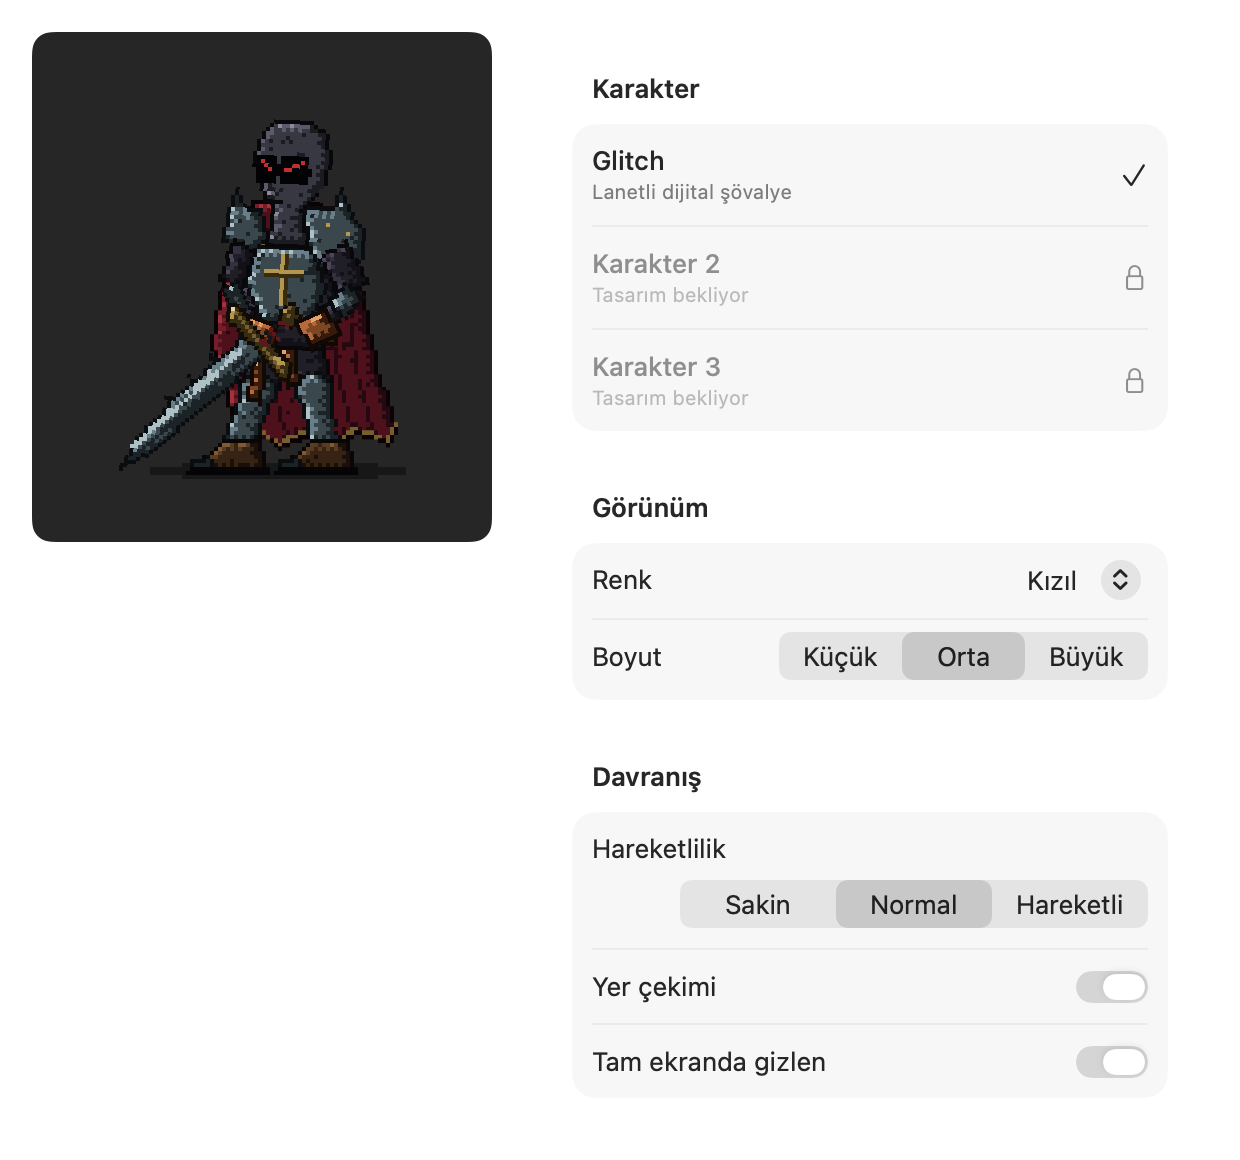
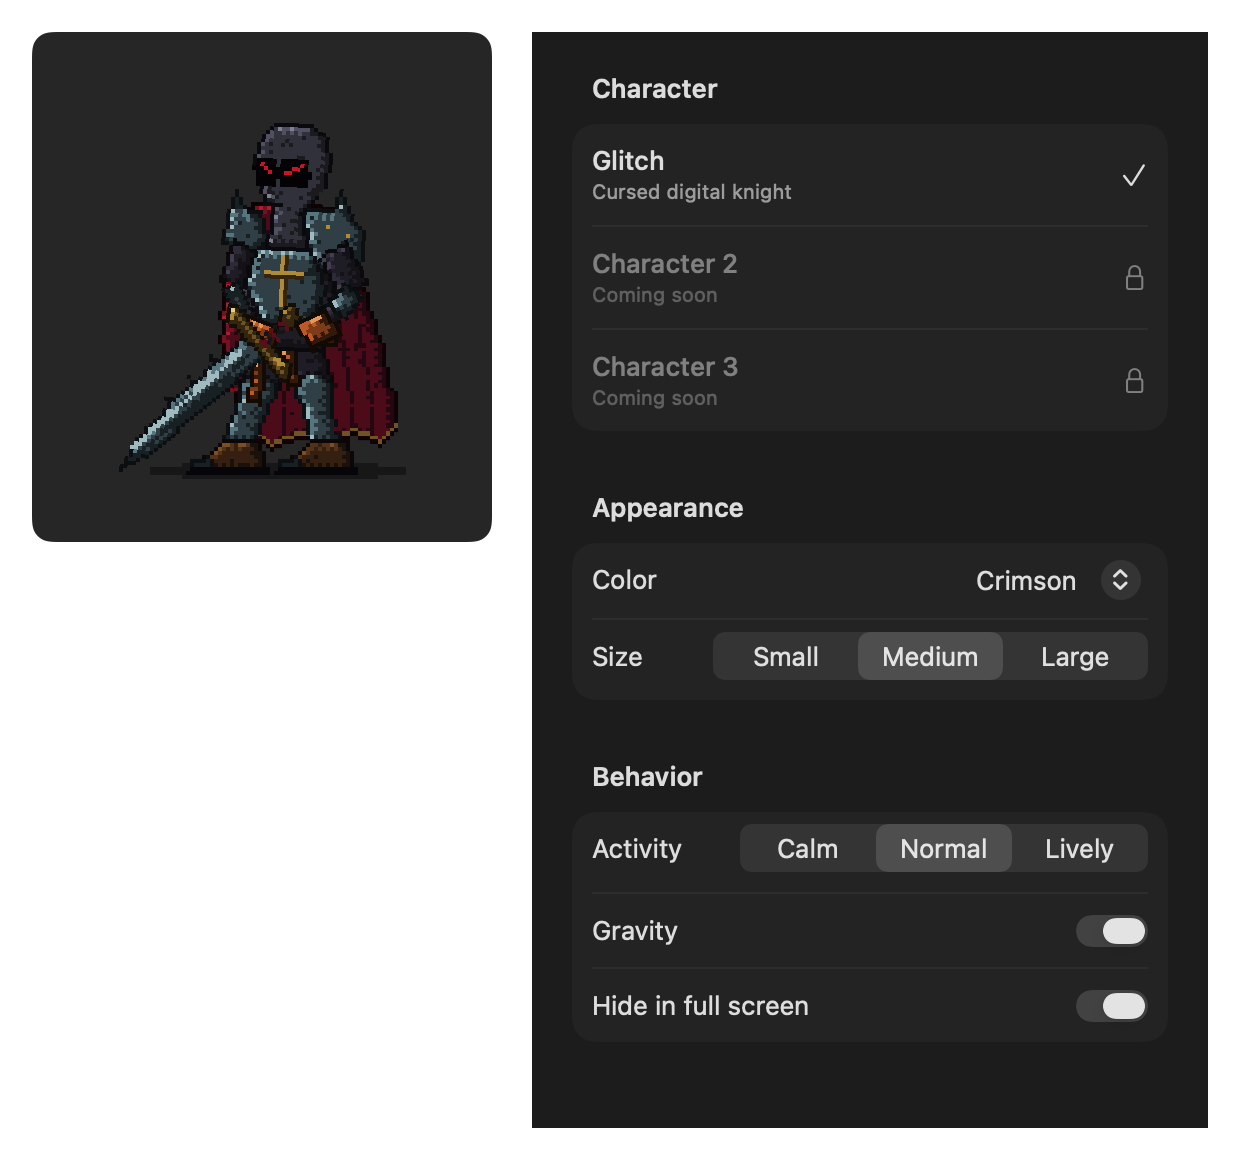
[App] English UI: menu, settings, sentinel dialog and panel

diff --git a/Glitch/SettingsView.swift b/Glitch/SettingsView.swift
@@ -10,7 +10,7 @@ struct SettingsView: View {
                 .tabItem { Label("Customize", systemImage: "paintbrush") }
                 .tag("customize")
             SoundTab()
-                .tabItem { Label("Ses", systemImage: "speaker.wave.2") }
+                .tabItem { Label("Sound", systemImage: "speaker.wave.2") }
                 .tag("sound")
         }
         .frame(width: 620, height: 580)
@@ -34,10 +34,10 @@ private struct CustomizeTab: View {
                 .frame(width: 230, height: 255)
                 .clipped()
                 .background(.black.opacity(0.85), in: .rect(cornerRadius: 10))
-                .accessibilityLabel("Karakter önizlemesi")
+                .accessibilityLabel("Character preview")
 
             Form {
-                Section("Karakter") {
+                Section("Character") {
                     ForEach(CharacterInfo.all) { info in
                         Button {
                             character = info.id
@@ -57,26 +57,26 @@ private struct CustomizeTab: View {
                         .disabled(!info.available)
                     }
                 }
-                Section("Görünüm") {
-                    Picker("Renk", selection: $hue) {
+                Section("Appearance") {
+                    Picker("Color", selection: $hue) {
                         ForEach(ColorTheme.all) { Text($0.name).tag($0.hue) }
                     }
-                    Picker("Boyut", selection: $scale) {
-                        Text("Küçük").tag(1.0)
-                        Text("Orta").tag(2.0)
-                        Text("Büyük").tag(3.0)
+                    Picker("Size", selection: $scale) {
+                        Text("Small").tag(1.0)
+                        Text("Medium").tag(2.0)
+                        Text("Large").tag(3.0)
                     }
                     .pickerStyle(.segmented)
                 }
-                Section("Davranış") {
-                    Picker("Hareketlilik", selection: $liveliness) {
-                        Text("Sakin").tag(0)
+                Section("Behavior") {
+                    Picker("Activity", selection: $liveliness) {
+                        Text("Calm").tag(0)
                         Text("Normal").tag(1)
-                        Text("Hareketli").tag(2)
+                        Text("Lively").tag(2)
                     }
                     .pickerStyle(.segmented)
-                    Toggle("Yer çekimi", isOn: $gravity)
-                    Toggle("Tam ekranda gizlen", isOn: $hideInFullscreen)
+                    Toggle("Gravity", isOn: $gravity)
+                    Toggle("Hide in full screen", isOn: $hideInFullscreen)
                 }
             }
             .formStyle(.grouped)
@@ -92,8 +92,8 @@ private struct SoundTab: View {
     var body: some View {
         Form {
             Section {
-                Toggle("Sessiz", isOn: $muted)
-                LabeledContent("Ses seviyesi") {
+                Toggle("Mute", isOn: $muted)
+                LabeledContent("Volume") {
                     HStack {
                         Image(systemName: "speaker.fill")
                         Slider(value: $volume, in: 0 ... 1)
@@ -102,7 +102,7 @@ private struct SoundTab: View {
                 }
                 .disabled(muted)
             }
-            Section("Olay sesleri") {
+            Section("Event sounds") {
                 ForEach(SoundGroup.allCases, id: \.self) { group in
                     SoundGroupToggle(group: group)
                 }

diff --git a/Glitch/Sentinel/SentinelMenu.swift b/Glitch/Sentinel/SentinelMenu.swift
@@ -9,13 +9,13 @@ struct SentinelMenu: View {
     var body: some View {
         let _ = revision
         if HookSetup.isInstalled {
-            Button("Claude Code nöbetçisi: Kaldır") { HookSetup.uninstall(); revision += 1 }
+            Button("Claude Code sentinel: Remove") { HookSetup.uninstall(); revision += 1 }
         } else {
-            Button("Claude Code nöbetçisi: Kur…") { HookSetup.askAndInstall(); revision += 1 }
+            Button("Claude Code sentinel: Install…") { HookSetup.askAndInstall(); revision += 1 }
         }
         let projects = SentinelHub.shared.projects
         if !projects.known.isEmpty {
-            Menu("İzlenen projeler") {
+            Menu("Watched projects") {
                 ForEach(projects.known, id: \.self) { cwd in
                     Button((projects.isIncluded(cwd) ? "✓ " : "    ") + projects.name(for: cwd)) {
                         projects.setIncluded(cwd, !projects.isIncluded(cwd))
@@ -40,10 +40,10 @@ enum HookSetup {
 
     static func askAndInstall() {
         let alert = NSAlert()
-        alert.messageText = "Claude Code nöbetçisi kurulsun mu?"
+        alert.messageText = "Install the Claude Code sentinel?"
         alert.informativeText = HookInstaller.preview(scriptPath: HookInstaller.scriptPath)
-        alert.addButton(withTitle: "Kur")
-        alert.addButton(withTitle: "Vazgeç")
+        alert.addButton(withTitle: "Install")
+        alert.addButton(withTitle: "Cancel")
         NSApp.activate()
         guard alert.runModal() == .alertFirstButtonReturn else { return }
         do {
@@ -52,9 +52,9 @@ enum HookSetup {
             let updated = try HookInstaller.merged(settings: current, scriptPath: HookInstaller.scriptPath)
             try write(updated, backingUp: current)
         } catch HookInstaller.Failure.invalidJSON {
-            show("settings.json okunamadı, hiçbir şey değiştirilmedi.")
+            show("Couldn't read settings.json. Nothing was changed.")
         } catch {
-            show("Kurulamadı: \(error.localizedDescription)")
+            show("Couldn't install: \(error.localizedDescription)")
         }
     }
 
@@ -63,9 +63,9 @@ enum HookSetup {
         do {
             try write(try HookInstaller.removed(settings: current, scriptPath: HookInstaller.scriptPath), backingUp: current)
         } catch HookInstaller.Failure.invalidJSON {
-            show("settings.json okunamadı, hiçbir şey değiştirilmedi.")
+            show("Couldn't read settings.json. Nothing was changed.")
         } catch {
-            show("Kaldırılamadı: \(error.localizedDescription)")
+            show("Couldn't remove: \(error.localizedDescription)")
         }
     }
 

diff --git a/Glitch/GlitchApp.swift b/Glitch/GlitchApp.swift
@@ -18,7 +18,7 @@ struct GlitchApp: App {
             AccessibilityStatus()
             SentinelMenu()
             Divider()
-            Button("Çıkış") { NSApp.terminate(nil) }
+            Button("Quit") { NSApp.terminate(nil) }
                 .keyboardShortcut("q")
         }
         Window("Glitch", id: "settings") {
@@ -36,7 +36,7 @@ private struct SettingsButtons: View {
     var body: some View {
         Button("Customize…") { open("customize") }
             .keyboardShortcut(",")
-        Button("Ses…") { open("sound") }
+        Button("Sound…") { open("sound") }
     }
 
     private func open(_ name: String) {
@@ -50,7 +50,7 @@ private struct MuteToggle: View {
     @AppStorage(Prefs.muted) private var muted = false
 
     var body: some View {
-        Button(muted ? "Sesi aç" : "Sessize al") { muted.toggle() }
+        Button(muted ? "Unmute" : "Mute") { muted.toggle() }
     }
 }
 
@@ -58,9 +58,9 @@ private struct MuteToggle: View {
 private struct AccessibilityStatus: View {
     var body: some View {
         if AXIsProcessTrusted() {
-            Text("✓ Yazı kutusu koruması açık")
+            Text("✓ Text field guard on")
         } else {
-            Button("⚠ Yazı kutusu koruması kapalı: izin ver…") {
+            Button("⚠ Text field guard off: allow…") {
                 TextFieldGuard.askForPermission()
                 if let url = URL(string: "x-apple.systempreferences:com.apple.preference.security?Privacy_Accessibility") {
                     NSWorkspace.shared.open(url)
@@ -74,7 +74,7 @@ private struct LoginToggle: View {
     @State private var enabled = SMAppService.mainApp.status == .enabled
 
     var body: some View {
-        Button(enabled ? "✓ Girişte başlat" : "Girişte başlat") {
+        Button(enabled ? "✓ Open at login" : "Open at login") {
             do {
                 if enabled { try SMAppService.mainApp.unregister() } else { try SMAppService.mainApp.register() }
             } catch {

diff --git a/Glitch/Prefs.swift b/Glitch/Prefs.swift
@@ -32,11 +32,11 @@ enum SoundGroup: String, CaseIterable {
 
     var title: String {
         switch self {
-        case .arrival: "Uyanış ve veda"
-        case .reactions: "Tepkiler (tıklama, sürükleme)"
-        case .movement: "Adımlar ve düşüş"
+        case .arrival: "Wake and goodbye"
+        case .reactions: "Reactions (click, drag)"
+        case .movement: "Steps and falls"
         case .glitch: "Glitch"
-        case .sword: "Kılıç"
+        case .sword: "Sword"
         }
     }
 
@@ -61,9 +61,9 @@ struct CharacterInfo: Identifiable {
     let available: Bool
 
     static let all = [
-        CharacterInfo(id: "glitch", name: "Glitch", theme: "Lanetli dijital şövalye", available: true),
-        CharacterInfo(id: "slot2", name: "Karakter 2", theme: "Tasarım bekliyor", available: false),
-        CharacterInfo(id: "slot3", name: "Karakter 3", theme: "Tasarım bekliyor", available: false),
+        CharacterInfo(id: "glitch", name: "Glitch", theme: "Cursed digital knight", available: true),
+        CharacterInfo(id: "slot2", name: "Character 2", theme: "Coming soon", available: false),
+        CharacterInfo(id: "slot3", name: "Character 3", theme: "Coming soon", available: false),
     ]
 }
 
@@ -74,9 +74,9 @@ struct ColorTheme: Identifiable {
     var id: Double { hue }
 
     static let all = [
-        ColorTheme(name: "Kızıl", hue: 0),
-        ColorTheme(name: "Kehribar", hue: 35),
-        ColorTheme(name: "Zümrüt", hue: 140),
-        ColorTheme(name: "Buz", hue: 200),
+        ColorTheme(name: "Crimson", hue: 0),
+        ColorTheme(name: "Amber", hue: 35),
+        ColorTheme(name: "Emerald", hue: 140),
+        ColorTheme(name: "Ice", hue: 200),
     ]
 }

diff --git a/Glitch/Sentinel/SessionListPanel.swift b/Glitch/Sentinel/SessionListPanel.swift
@@ -56,7 +56,7 @@ private struct SessionListView: View {
                 }
             }
             if let first = rows.first {
-                Text("— tıkla: \(titles(first.id)) açılır")
+                Text("— click to open \(titles(first.id))")
                     .foregroundStyle(.white.opacity(0.4))
                     .padding(.top, 2)
             }
@@ -82,17 +82,17 @@ private struct SessionListView: View {
 
     private func label(_ state: SessionState) -> String {
         switch state {
-        case .permission: "izin bekliyor"
-        case .question: "cevap bekliyor"
-        case .finished: "bitti"
-        case .error: "hata"
+        case .permission: "needs permission"
+        case .question: "needs an answer"
+        case .finished: "done"
+        case .error: "error"
         }
     }
 
     private func age(_ since: Date) -> String {
         let minutes = Int(now.timeIntervalSince(since) / 60)
-        if minutes < 1 { return "az önce" }
-        if minutes < 60 { return "\(minutes) dk" }
-        return "\(minutes / 60) sa"
+        if minutes < 1 { return "just now" }
+        if minutes < 60 { return "\(minutes) min" }
+        return "\(minutes / 60) h"
     }
 }

diff --git a/Glitch/Sentinel/HookInstaller.swift b/Glitch/Sentinel/HookInstaller.swift
@@ -67,12 +67,12 @@ enum HookInstaller {
     /// What the consent dialog lists.
     static func preview(scriptPath: String) -> String {
         """
-        ~/.claude/settings.json içine şu olaylar için bir komut eklenecek:
+        A command will be added to ~/.claude/settings.json for these events:
         \(events.map { event in event.matcher.map { "\(event.name) (\($0))" } ?? event.name }.joined(separator: ", "))
 
-        Komut: \(command(scriptPath))
-        Her olayı Glitch'e bir dosya olarak bırakır, hiçbir şeyi engellemez, internete bir şey göndermez.
-        Mevcut ayarların ve hook'ların değişmez; önce settings.json.glitch-backup yedeği alınır.
+        Command: \(command(scriptPath))
+        It hands each event to Glitch as a file. It never blocks anything and sends nothing to the internet.
+        Your existing settings and hooks stay as they are; a settings.json.glitch-backup copy is made first.
         """
     }
 

diff --git a/Glitch/Brain.swift b/Glitch/Brain.swift
@@ -195,7 +195,7 @@ final class Brain {
     /// Sprite-space point the user grabbed (set on mouse down), so the body hangs from the cursor.
     var grabPoint = CGPoint(x: 39, y: 20)
     var gravityEnabled = true
-    /// Customize › Hareketlilik: stretches (calm) or shortens (lively) the gaps between idle moves.
+    /// Customize › Activity: stretches (calm) or shortens (lively) the gaps between idle moves.
     var restScale = 1.0
     var onSound: ((SoundEffect) -> Void)?
     var mouseTarget: () -> (mouse: CGPoint, center: CGPoint)? = { nil }

diff --git a/README.md b/README.md
@@ -74,7 +74,7 @@ xcodebuild -scheme Glitch -destination 'platform=macOS' test
 ## First run
 
 1. Open Glitch. He drops in from the top of the screen.
-2. Menu bar icon → **Claude Code nöbetçisi: Kur…** to install the sentinel hook.
+2. Menu bar icon → **Claude Code sentinel: Install…** to install the sentinel hook.
 3. Optional: grant **Accessibility** (System Settings → Privacy & Security) so he can step out of the way of text boxes.
 
 > The menus are in Turkish for now.
